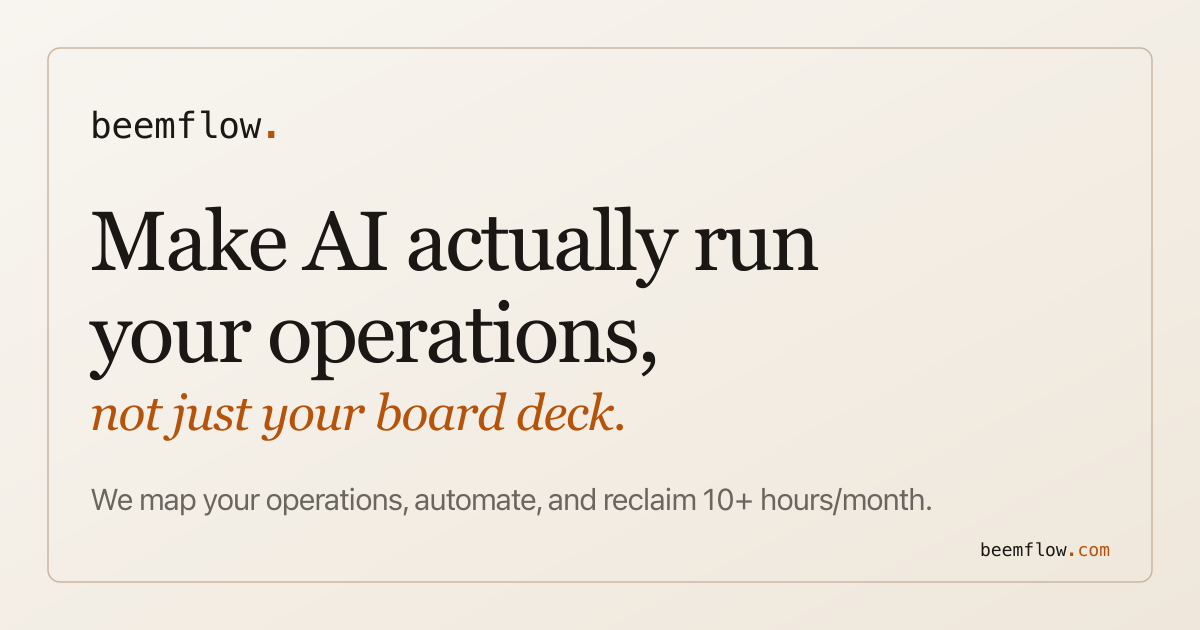
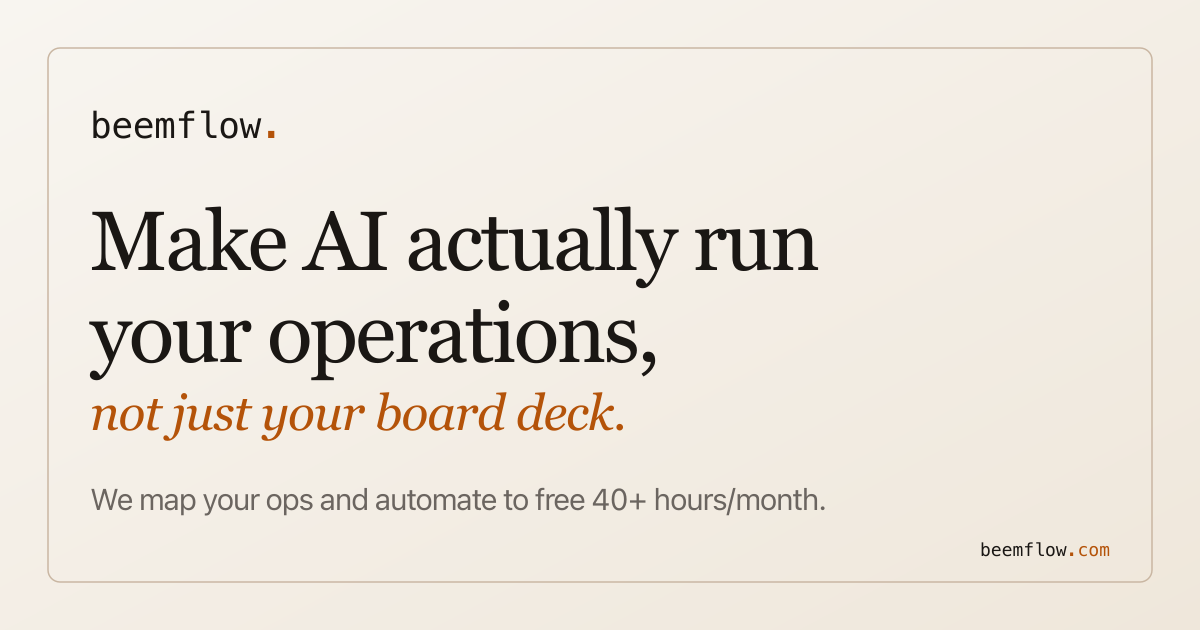
refactor: update pricing and guarantees in various components for consistency and clarity

Changed region(s): [[0.2467, 0.754, 0.7708, 0.8143]]

diff --git a/src/data/solutions.ts b/src/data/solutions.ts
@@ -291,7 +291,7 @@ export const SOLUTION_MANUFACTURING: Solution = {
         phase: 'Blueprint',
         duration: '2 weeks',
         description:
-          'We map your live quote\u2011to\u2011delivery process, identify 3\u20115 high\u2011ROI automation targets, and deliver an ROI snapshot with a 90\u2011day automation roadmap. $3K, credited toward your first Sprint.',
+          'We map your live quote\u2011to\u2011delivery process, identify 3\u20115 high\u2011ROI automation targets, and deliver an ROI snapshot with a 90\u2011day automation roadmap. $5K, credited toward your first Sprint.',
       },
       {
         phase: 'Process Automation Sprint',
@@ -312,8 +312,7 @@ export const SOLUTION_MANUFACTURING: Solution = {
   risk: {
     heading: 'Your operation, your\u00A0systems',
     points: [
-      'Everything runs on your infrastructure, your accounts. No vendor lock\u2011in.',
-      'If, by the end of the Blueprint, we haven\u2019t identified at least one automation you believe is worth deploying and shown a realistic path to reclaiming 10+ hours/month, we\u2019ll keep working the Blueprint at our cost until we do.',
+      'Everything runs on your infrastructure, your accounts.',
       'All automations, dashboards, and documentation are yours. We build on n8n and open tools wherever practical.',
       '30\u2011day stabilization included on every deployment. If something we built breaks under normal use, we fix it.',
       'Managed Automation required for critical\u2011path automations (minimum 6 months). After that, continue month\u2011to\u2011month or transition to per\u2011incident support.',
@@ -480,7 +479,7 @@ export const SOLUTION_HOME_SERVICES: Solution = {
   story: {
     label: 'What this looks like in practice',
     narrative:
-      'A PE\u2011backed HVAC and plumbing roll\u2011up with 8 locations was losing an estimated 25\u201340 after\u2011hours leads per month to voicemail. Open estimates over $3K were sitting in ServiceTitan with no follow\u2011up. Roughly $80K/month in potential revenue going cold. Invoicing ran 4\u20117 days behind job completion across most locations. After deploying after\u2011hours lead capture, automated estimate follow\u2011up sequences, and job\u2011triggered invoicing, lead response moved to under 15 minutes, estimate close rate improved measurably, and invoice lag dropped to same\u2011day. The ops director estimated the portfolio reclaimed 20\u201325 hours/month across dispatch, admin, and billing.',
+      'A PE\u2011backed HVAC and plumbing roll\u2011up with 8 locations was losing an estimated 25\u201340 after\u2011hours leads per month to voicemail. Open estimates over $5K were sitting in ServiceTitan with no follow\u2011up. Roughly $80K/month in potential revenue going cold. Invoicing ran 4\u20117 days behind job completion across most locations. After deploying after\u2011hours lead capture, automated estimate follow\u2011up sequences, and job\u2011triggered invoicing, lead response moved to under 15 minutes, estimate close rate improved measurably, and invoice lag dropped to same\u2011day. The ops director estimated the portfolio reclaimed 20\u201325 hours/month across dispatch, admin, and billing.',
     footnote:
       'Composite illustration based on common engagement patterns. Specific results depend on your operation\u2019s starting point and scope.',
   },
@@ -492,7 +491,7 @@ export const SOLUTION_HOME_SERVICES: Solution = {
         phase: 'Blueprint',
         duration: '2 weeks',
         description:
-          'We map your live lead\u2011to\u2011invoice process, identify 3\u20115 high\u2011ROI automation targets, and deliver an ROI snapshot with a 90\u2011day automation roadmap. $3K, credited toward your first Sprint.',
+          'We map your live lead\u2011to\u2011invoice process, identify 3\u20115 high\u2011ROI automation targets, and deliver an ROI snapshot with a 90\u2011day automation roadmap. $5K, credited toward your first Sprint.',
       },
       {
         phase: 'Process Automation Sprint',
@@ -512,8 +511,7 @@ export const SOLUTION_HOME_SERVICES: Solution = {
   risk: {
     heading: 'Your operation, your\u00A0systems',
     points: [
-      'Everything runs on your infrastructure, your accounts. No vendor lock\u2011in.',
-      'If, by the end of the Blueprint, we haven\u2019t identified at least one automation you believe is worth deploying and shown a realistic path to reclaiming 10+ hours/month, we\u2019ll keep working the Blueprint at our cost until we do.',
+      'Everything runs on your infrastructure, your accounts.',
       'All automations, dashboards, and documentation are yours. We build on n8n and open tools wherever practical.',
       '30\u2011day stabilization included on every deployment. If something we built breaks under normal use, we fix it.',
       'Managed Automation required for critical\u2011path automations (minimum 6 months). After that, continue month\u2011to\u2011month or transition to per\u2011incident support.',
@@ -691,7 +689,7 @@ export const SOLUTION_HEALTHCARE: Solution = {
         phase: 'Blueprint',
         duration: '2 weeks',
         description:
-          'We map your live patient acquisition process, identify 3\u20115 high\u2011ROI automation targets, and deliver an ROI snapshot with a 90\u2011day automation roadmap. $3K, credited toward your first Sprint.',
+          'We map your live patient acquisition process, identify 3\u20115 high\u2011ROI automation targets, and deliver an ROI snapshot with a 90\u2011day automation roadmap. $5K, credited toward your first Sprint.',
       },
       {
         phase: 'Process Automation Sprint',
@@ -711,8 +709,7 @@ export const SOLUTION_HEALTHCARE: Solution = {
   risk: {
     heading: 'Your operation, your\u00A0systems',
     points: [
-      'Everything runs on your infrastructure, your accounts. No vendor lock\u2011in.',
-      'If, by the end of the Blueprint, we haven\u2019t identified at least one automation you believe is worth deploying and shown a realistic path to reclaiming 10+ hours/month, we\u2019ll keep working the Blueprint at our cost until we do.',
+      'Everything runs on your infrastructure, your accounts.',
       'All automations, dashboards, and documentation are yours. We build on n8n and open tools wherever practical.',
       'We work around your PMS, not inside clinical records. Early automations focus on front\u2011office operations: intake, scheduling, reminders, and reporting.',
       '30\u2011day stabilization included on every deployment. If something we built breaks under normal use, we fix it.',
@@ -891,7 +888,7 @@ export const SOLUTION_CLEANING: Solution = {
         phase: 'Blueprint',
         duration: '2 weeks',
         description:
-          'We map your live bid\u2011to\u2011inspect process, identify 3\u20115 high\u2011ROI automation targets, and deliver an ROI snapshot with a 90\u2011day automation roadmap. $3K, credited toward your first Sprint.',
+          'We map your live bid\u2011to\u2011inspect process, identify 3\u20115 high\u2011ROI automation targets, and deliver an ROI snapshot with a 90\u2011day automation roadmap. $5K, credited toward your first Sprint.',
       },
       {
         phase: 'Process Automation Sprint',
@@ -911,8 +908,7 @@ export const SOLUTION_CLEANING: Solution = {
   risk: {
     heading: 'Your operation, your\u00A0systems',
     points: [
-      'Everything runs on your infrastructure, your accounts. No vendor lock\u2011in.',
-      'If, by the end of the Blueprint, we haven\u2019t identified at least one automation you believe is worth deploying and shown a realistic path to reclaiming 10+ hours/month, we\u2019ll keep working the Blueprint at our cost until we do.',
+      'Everything runs on your infrastructure, your accounts.',
       'All automations, dashboards, and documentation are yours. We build on n8n and open tools wherever practical.',
       '30\u2011day stabilization included on every deployment. If something we built breaks under normal use, we fix it.',
       'Managed Automation required for critical\u2011path automations (minimum 6 months). After that, continue month\u2011to\u2011month or transition to per\u2011incident support.',
@@ -1091,7 +1087,7 @@ export const SOLUTION_FIELD_SERVICES: Solution = {
         phase: 'Blueprint',
         duration: '2 weeks',
         description:
-          'We map your live quote\u2011to\u2011invoice process, identify 3\u20115 high\u2011ROI automation targets, and deliver an ROI snapshot with a 90\u2011day automation roadmap. $3K, credited toward your first Sprint.',
+          'We map your live quote\u2011to\u2011invoice process, identify 3\u20115 high\u2011ROI automation targets, and deliver an ROI snapshot with a 90\u2011day automation roadmap. $5K, credited toward your first Sprint.',
       },
       {
         phase: 'Process Automation Sprint',
@@ -1111,8 +1107,7 @@ export const SOLUTION_FIELD_SERVICES: Solution = {
   risk: {
     heading: 'Your operation, your\u00A0systems',
     points: [
-      'Everything runs on your infrastructure, your accounts. No vendor lock\u2011in.',
-      'If, by the end of the Blueprint, we haven\u2019t identified at least one automation you believe is worth deploying and shown a realistic path to reclaiming 10+ hours/month, we\u2019ll keep working the Blueprint at our cost until we do.',
+      'Everything runs on your infrastructure, your accounts.',
       'All automations, dashboards, and documentation are yours. We build on n8n and open tools wherever practical.',
       '30\u2011day stabilization included on every deployment. If something we built breaks under normal use, we fix it.',
       'Managed Automation required for critical\u2011path automations (minimum 6 months). After that, continue month\u2011to\u2011month or transition to per\u2011incident support.',

diff --git a/src/data/content.ts b/src/data/content.ts
@@ -64,7 +64,7 @@ export const STEPS: Step[] = [
     title: "Milestone Blueprint",
     subtitle: "Strategy Sprint",
     timeline: "1\u20132 weeks",
-    price: "$8K",
+    price: "$5K",
     description:
       "We map your users, core jobs, and constraints into a story\u2011mapped v1 that is actually buildable by real engineers on a real timeline.",
     deliverables: [
@@ -76,7 +76,7 @@ export const STEPS: Step[] = [
       "A buildable v1 plan your board and engineers can\u2019t easily poke holes in",
       "You can build with us or any team",
     ],
-    callout: { label: "Launch Build credit: ", text: "If we\u2019re a fit and you roll into the Launch Build within 60 days, we credit the full $8K Blueprint fee toward your build." },
+    callout: { label: "Launch Build credit: ", text: "If we\u2019re a fit and you roll into the Launch Build within 60 days, we credit the full $5K Blueprint fee toward your build." },
   },
   {
     title: "Launch Build",
@@ -102,7 +102,7 @@ export const STEPS: Step[] = [
     title: "Scale & Stewardship",
     subtitle: "Optional",
     timeline: "Ongoing",
-    price: "From $8K/mo",
+    price: "From $5K/mo",
     description:
       "Available once your v1 is live. This is for ongoing leadership, operations automation, and fast iteration on the product we\u2019ve shipped together based on real user feedback, not a net\u2011new product build.",
     deliverables: [
@@ -284,15 +284,14 @@ export const OPS_OFFER_STEPS: Step[] = [
     title: "Ops Blueprint",
     subtitle: "",
     timeline: "2 weeks",
-    price: "$3K",
+    price: "$5K",
     description: "BeemFlow runs a focused audit of your live operations, powered by <a href=\"https://beemspec.com\" target=\"_blank\" rel=\"noopener noreferrer\">BeemSpec</a> for process mapping and scoping, to identify failure points and surface the highest\u2011ROI automation opportunities.",
     bullets: [
-      "<strong>Ops Blueprint:</strong> 6\u201312 key processes mapped as structured stories (end\u2011to\u2011end flows like Lead \u2192 Booking, Quote \u2192 Cash, or No\u2011Show Rescue, including tools, handoffs, and edge cases)",
-      "<strong>Coordinated in <a href=\"https://beemspec.com\" target=\"_blank\" rel=\"noopener noreferrer\">BeemSpec</a>:</strong> all automations scoped, documented, and tracked in <a href=\"https://beemspec.com\" target=\"_blank\" rel=\"noopener noreferrer\">BeemSpec</a> so operators, leadership, and BeemFlow share one source of truth",
-      "<strong>Prioritized automation backlog:</strong> 3\u20115 high\u2011ROI automations (specific, shippable automations inside those processes) prioritized by impact and projected hours/month reclaimed",
+      "<strong>Ops Blueprint:</strong> 6\u201312 key processes mapped as structured stories (end\u2011to\u2011end flows like Lead \u2192 Booking, Quote \u2192 Cash, No\u2011Show Rescue), including tools, handoffs, and edge cases",
+      "<strong>Prioritized automation backlog:</strong> 3\u20115 high\u2011ROI automations, each defined as a specific, shippable workflow with projected hours per month reclaimed",
       "<strong>90\u2011day automation roadmap:</strong> a clear, sequenced plan for the next 1\u20112 Process Automation Sprints, each shipping 2\u20113 automations, with owners and dependencies scoped to your tools and team",
     ],
-    callout: { label: "Our guarantee", text: "If, by the end of the Blueprint, we haven\u2019t identified at least one automation you believe is worth deploying and shown a realistic path to reclaiming 10+ hours/month, we\u2019ll keep working the Blueprint at our cost until we do." },
+    callout: { label: "Guarantee (for multi\u2011location teams with at least 3 FTEs in the scoped function)", text: "If, by the end of the Blueprint, you do not have at least one automation opportunity modeled at 40+ hours per month of savings with a deployment plan your team understands, we will extend the Blueprint work at our cost until you do." },
   },
   {
     title: "Process Automation Sprints",
@@ -305,13 +304,13 @@ export const OPS_OFFER_STEPS: Step[] = [
       "<strong>Template\u2011driven builds:</strong> 2\u20133 production automations (e.g., lead capture & routing, no\u2011show detection & rescheduling, quote follow\u2011up sequences) drawn from BeemFlow\u2019s tested library and wired into your tools (CRM, booking, billing, messaging)",
       "<strong>Stabilization coverage:</strong> 30 days of included stabilization for deployed automations under normal use",
     ],
-    callout: { label: "Blueprint credit", text: "Your $3K Blueprint fee credits toward your first Process Automation Sprint." },
+    callout: { label: "Blueprint credit", text: "Your $5K Blueprint fee credits toward your first Process Automation Sprint." },
   },
   {
     title: "Managed Automation",
     subtitle: "",
     timeline: "Ongoing",
-    price: "From $3K\u20136K/mo",
+    price: "From $5K\u20136K/mo",
     description: "Ongoing monitoring and maintenance of your deployed automations, plus continued <a href=\"https://beemspec.com\" target=\"_blank\" rel=\"noopener noreferrer\">BeemSpec</a> access.",
     bullets: [
       "<strong>Automation monitoring &amp; incident handling:</strong> we watch critical automations, handle break/fix, and update as APIs and tools change",
